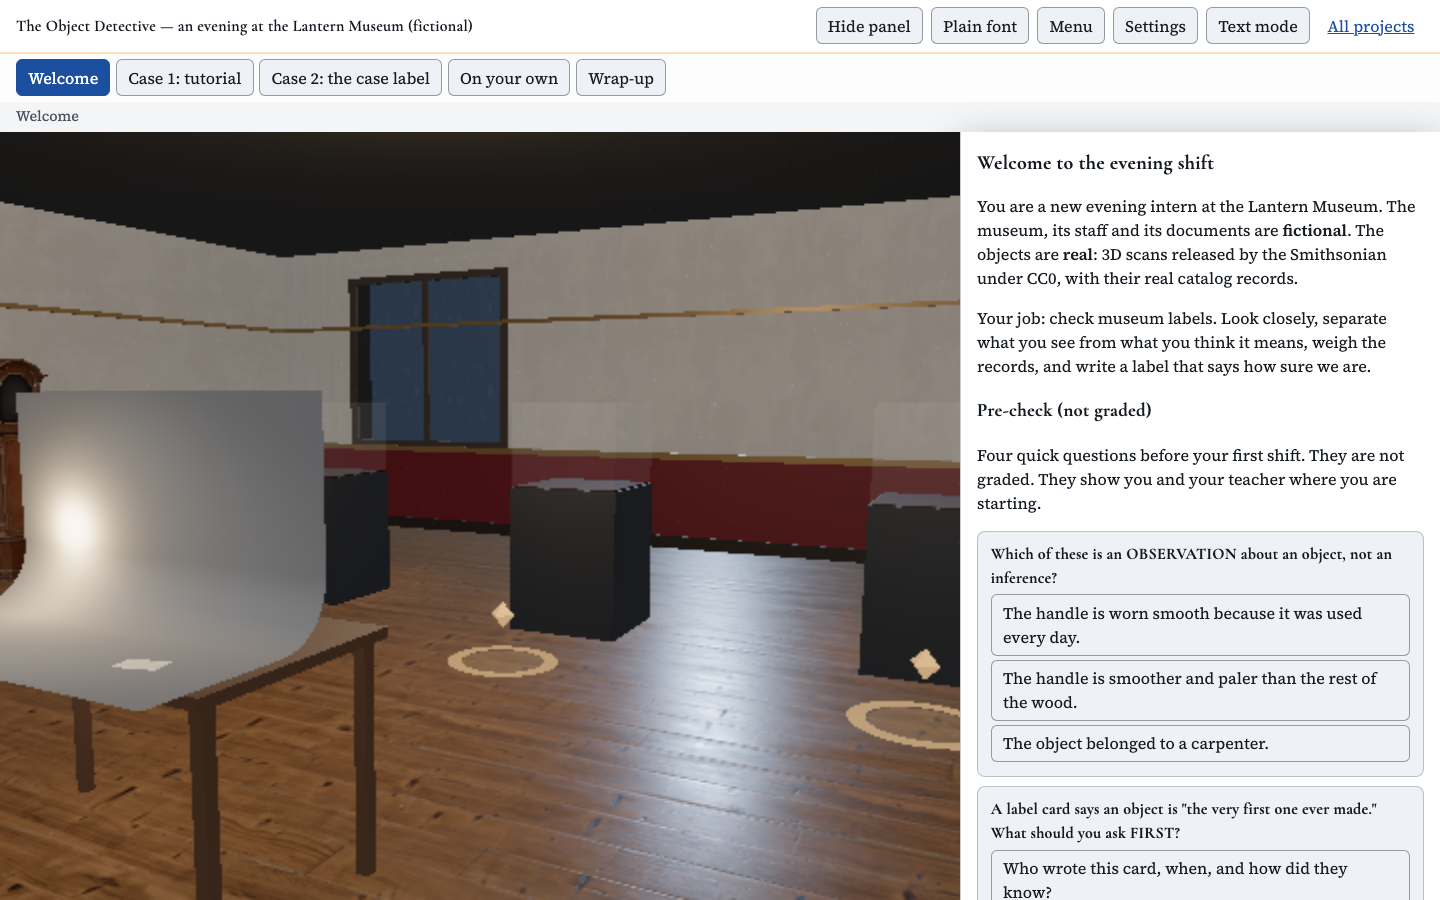
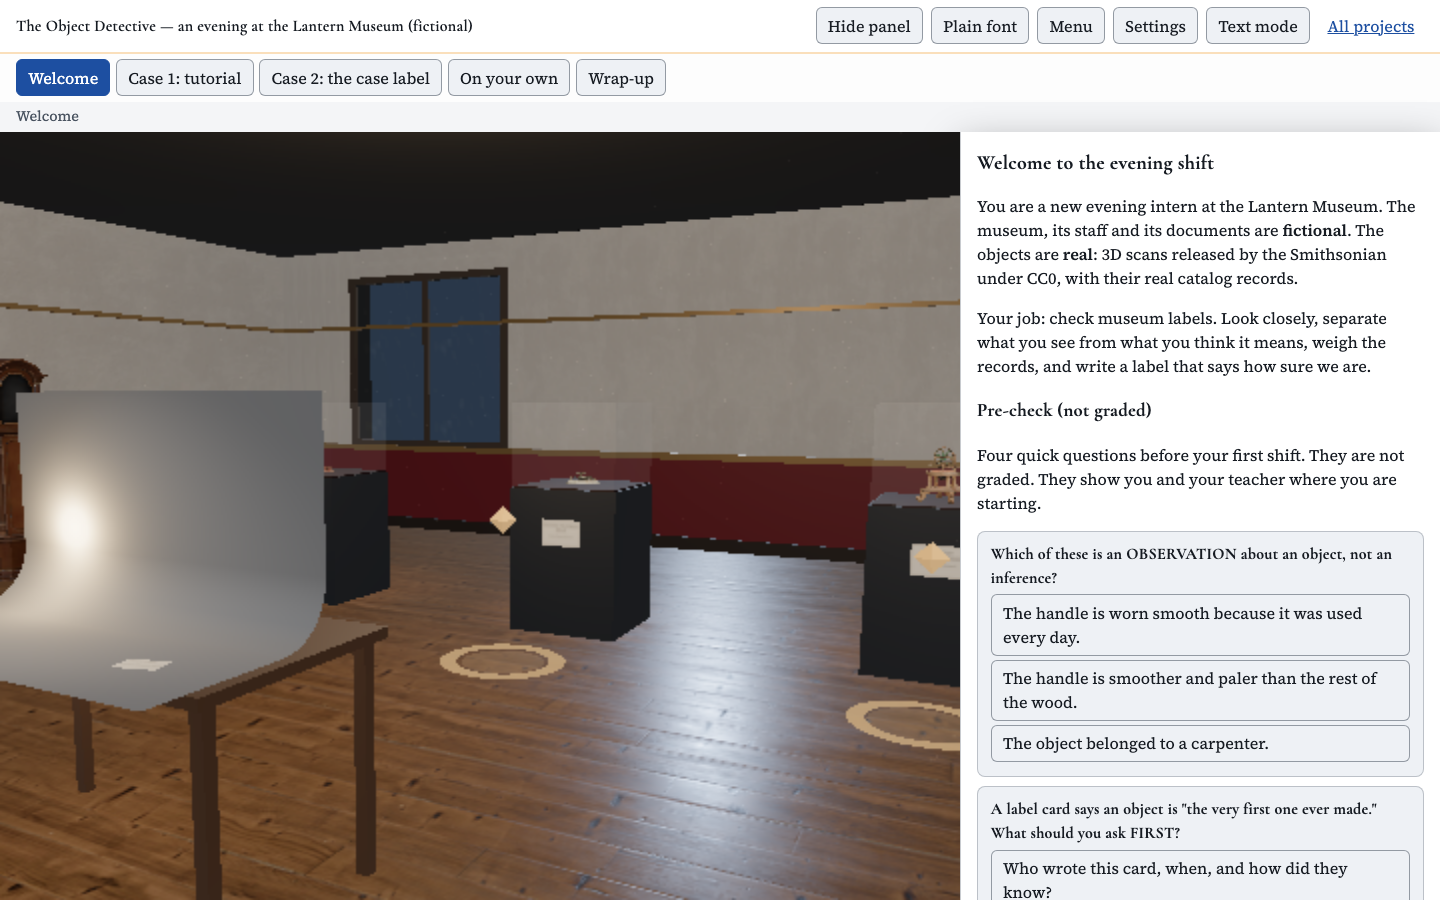
fix(v2): agent-review revisions OD-V9..V16 — dressed display cases, evidence-board cards back on the cork, archive arrival framing, full-bleed drawer collapse, torch label sync
V2-VIS-1 (major): the three display cases now carry a copy of one of the
Smithsonian CC0 scans (CASE_DISPLAYS: Henry trough battery, Chester telegraph
relay, Davenport electric motor — loaded through the inspection cache) plus a
Special Elite label card on the plinth front reading 'Lantern Museum
(fictional)'; the S2 reveal tucks the centre-case display away and restores it.
Poster re-rendered from the dressed scene so the alt text is true as written
(V2-HON-1).

V2-VIS-2 (major): evidence-board cards used local z 1.5-1.9 inside a group
already at z=1.7 and floated ~1.5 m off the cork; re-positioned to local
z -0.38..0.36 so cards + red string land on the board (world x 5.934 +-0.08).

V2-INT-1 (major): hotspot-archive arrival moved into the doorway mouth
[6.9, 1.5, -1.2] so the sightline clears the open door leaf.

V2-INT-2 (major): collapsing the HUD drawer now overlays the panel (skipped in
text mode) and engine.resize() runs on the toggle, so the canvas grows to full
bleed and shrinks back; magnifier stays rect-based/resize-safe.

Minors: ToolPad.syncRaking keeps the raking sliders honest while the torch is
mouse-aimed (V2-VIS-4); chandelier 0.2 m lower + emissive 0.55->0.9 (V2-VIS-5);
reduced-motion glide verified instant (V2-MOT-1).

OD-V16 (found during verification): the full main-case 3D e2e was racy — a POI
clicked mid object-switch recorded against the previous object. gotoHotspot now
settles the in-flight switch (Inspection.whenStaged) before applying the
[…]

diff --git a/src/scenes/gallery.js b/src/scenes/gallery.js
@@ -122,6 +122,17 @@ function makeRainTexture() {
 
 export const H_CHAND = 3.6;
 
+/**
+ * The three CC0 Smithsonian scans displayed in the gallery cases during
+ * explore mode (agent review V2-VIS-1): the same real CC0 files the learner
+ * inspects on the table, dressed as Lantern Museum (fictional) displays.
+ */
+export const CASE_DISPLAYS = [
+  { id: 'henry-trough-battery', title: 'Henry trough battery' },
+  { id: 'chester-relay', title: 'Chester telegraph relay' },
+  { id: 'davenport-motor', title: 'Davenport electric motor' },
+];
+
 export class Gallery {
   constructor(scene, renderer, textures, hdriPath) {
     this.scene = scene;
@@ -141,8 +152,10 @@ export class Gallery {
     this._loadHDRI(hdriPath);
     // Poly Haven furniture (async, fails soft if the manifest is unavailable).
     this.library = new ModelLibrary();
-    this.library.place(this.root, 'Chandelier_01', { position: [0, H_CHAND - 0.05, -2], targetHeight: 1.05, contactShadow: false })
-      .then((m) => { if (m) { m.traverse((c) => { if (c.isMesh && c.material && 'emissiveIntensity' in c.material) c.material.emissiveIntensity = 0.55; }); } })
+    // Chandelier 0.2 m lower + stronger candle emissive so the prop itself reads
+    // against the near-black ceiling, not only its light pool (agent review V2-VIS-5).
+    this.library.place(this.root, 'Chandelier_01', { position: [0, H_CHAND - 0.25, -2], targetHeight: 1.05, contactShadow: false })
+      .then((m) => { if (m) { m.traverse((c) => { if (c.isMesh && c.material && 'emissiveIntensity' in c.material) c.material.emissiveIntensity = 0.9; }); } })
       .catch(() => {});
     this.library.place(this.root, 'vintage_grandfather_clock_01', { position: [-5.45, 0, -3.4], rotationY: Math.PI / 2, targetHeight: 2.05 })
       .then((m) => { if (m) { this.clock = m; this._buildPendulum(m); } })
@@ -375,7 +388,11 @@ export class Gallery {
     g.add(frame, cork);
     const cardMat = new THREE.MeshStandardMaterial({ color: '#f4efe4', roughness: 0.85 });
     const pinMat = new THREE.MeshStandardMaterial({ color: '#8c2d35', roughness: 0.4 });
-    const cards = [[1.5, 2.1], [1.5, 1.75], [1.9, 1.55], [1.85, 2.0]];
+    // Card offsets are LOCAL to the group (which sits at z = 1.7): [cz, cy] pairs
+    // must land on the cork, which spans local z ±0.55, y 1.17..2.27. The old
+    // values (cz 1.5–1.9) placed the cards 1.5+ m off the board in world space
+    // (agent review V2-VIS-2).
+    const cards = [[-0.38, 2.0], [0.06, 1.82], [0.36, 1.54], [-0.06, 2.12]];
     for (const [cz, cy] of cards) {
       const card = new THREE.Mesh(new THREE.PlaneGeometry(0.22, 0.28), cardMat);
       card.rotation.y = -Math.PI / 2;
@@ -471,7 +488,10 @@ export class Gallery {
         cameraPos: [x, 1.5, -1.5], cameraTarget: [x, 1.2, -4.2], onClick: () => onCase?.(i) });
     });
     ring([7.1, 0.02, -0.9], { id: 'hotspot-archive', label: 'Archive cabinet', hint: 'Walk into the archive corner', color: 0x8FB08D,
-      cameraPos: [6.5, 1.5, 0.1], cameraTarget: [8.1, 0.95, -1.9], onClick: () => onArchive?.() });
+      // Arrival pose inside the doorway mouth: the old [6.5, 1.5, 0.1] framed the
+      // open door slab (agent review V2-INT-1); from [6.9, 1.5, -1.2] the sightline
+      // to the cabinet/bookshelf corner clears the leaf.
+      cameraPos: [6.9, 1.5, -1.2], cameraTarget: [8.1, 0.95, -1.9], onClick: () => onArchive?.() });
     ring([4.6, 0.02, 1.7], { id: 'hotspot-board', label: 'Evidence board', hint: 'Walk to the evidence board', color: 0xC9743B,
       cameraPos: [4.1, 1.5, 1.7], cameraTarget: [5.95, 1.7, 1.7], onClick: () => onBoard?.() });
   }
@@ -571,6 +591,10 @@ export class Gallery {
    */
   showInCase(model, labelText) {
     if (this._caseGroup) { this.root.remove(this._caseGroup); this._caseGroup = null; }
+    // The reveal shares the centre case deck with the explore-mode display:
+    // tuck the dressed artefact away while the learner's labelled copy is up
+    // and restore it when the reveal clears (agent review V2-VIS-1).
+    if (this._caseArtefacts?.[1]) this._caseArtefacts[1].visible = !model;
     if (!model) return;
     const g = new THREE.Group();
     const copy = model.clone(true);
@@ -593,6 +617,90 @@ export class Gallery {
     g.userData.objectSize = size;
     this._caseGroup = g;
     this.root.add(g);
+  }
+
+  /** Small Special Elite label card on a case front (canvas texture). */
+  _labelCard(title) {
+    const c = document.createElement('canvas');
+    c.width = 512; c.height = 320;
+    const draw = () => {
+      const g = c.getContext('2d');
+      g.fillStyle = '#f1ead9';
+      g.fillRect(0, 0, c.width, c.height);
+      g.strokeStyle = '#8a7a5f';
+      g.lineWidth = 6;
+      g.strokeRect(10, 10, c.width - 20, c.height - 20);
+      g.fillStyle = '#241d15';
+      g.textAlign = 'center';
+      g.textBaseline = 'top';
+      let y = 52;
+      for (const line of wrapText(String(title || '').toUpperCase(), 17).slice(0, 3)) {
+        g.font = '46px "Special Elite", Georgia, serif';
+        g.fillText(line, c.width / 2, y);
+        y += 56;
+      }
+      g.font = 'italic 26px Georgia, serif';
+      g.fillText('Lantern Museum (fictional)', c.width / 2, Math.min(y + 20, c.height - 58));
+    };
+    draw();
+    const t = new THREE.CanvasTexture(c);
+    t.colorSpace = THREE.SRGBColorSpace;
+    t.anisotropy = 4;
+    // Special Elite lazy-loads on first use; redraw once the face is in so the
+    // card is set in the accent font, not the Georgia fallback.
+    if (document.fonts?.load) {
+      document.fonts.load('46px "Special Elite"').then((faces) => {
+        if (faces.length) { draw(); t.needsUpdate = true; }
+      }).catch(() => { /* fallback serif stays */ });
+    }
+    return t;
+  }
+
+  /**
+   * Dress the three display cases for explore mode (agent review V2-VIS-1):
+   * a copy of one of the Smithsonian CC0 scans on each felt deck plus a small
+   * Special Elite label card on the case front. `load(id)` resolves a scan
+   * group (pass the inspection cache's loader so no GLB is fetched twice).
+   * Labels frame the displays as Lantern Museum (fictional) — the artefacts
+   * are the same real CC0 scans shown under the studio light, and the cards
+   * claim no new realness beyond that.
+   * @param {{id: string, title: string}[]} entries  one per case (left, centre, right)
+   * @param {(id: string) => Promise<THREE.Object3D>} [load]
+   */
+  dressCases(entries, load) {
+    if (!this.cases?.length || !Array.isArray(entries)) return;
+    this._caseArtefacts = this._caseArtefacts || [];
+    entries.forEach((entry, i) => {
+      const caseGroup = this.cases[i];
+      if (!caseGroup || !entry || this._caseArtefacts[i]) return;
+      const card = new THREE.Mesh(
+        new THREE.PlaneGeometry(0.3, 0.19),
+        new THREE.MeshStandardMaterial({ map: this._labelCard(entry.title), roughness: 0.85 }),
+      );
+      card.position.set(0, 0.74, 0.403); // plinth front face (0.8 m deep), below the glass
+      card.rotation.x = -0.03;
+      caseGroup.add(card);
+      if (!load) return;
+      load(entry.id).then((model) => {
+        if (!model || this._caseArtefacts[i]) return;
+        const copy = model.clone(true);
+        copy.traverse((o) => { if (o.isMesh) { o.castShadow = true; o.receiveShadow = true; } });
+        const box = new THREE.Box3().setFromObject(copy);
+        const size = box.getSize(new THREE.Vector3());
+        const centre = box.getCenter(new THREE.Vector3());
+        // Fit inside the 0.78 m glass cube (0.6 m tall interior); true scan
+        // proportions, scaled down only when a piece exceeds the case.
+        const s = Math.min(0.34 / Math.max(size.x, size.y, size.z, 1e-4), 1);
+        copy.scale.setScalar(s);
+        copy.position.set(-centre.x * s, -box.min.y * s, -centre.z * s);
+        const holder = new THREE.Group();
+        holder.add(copy);
+        holder.position.set(0, CASE_POS.y + 0.012, 0); // felt deck top
+        holder.rotation.y = -0.3;
+        caseGroup.add(holder);
+        this._caseArtefacts[i] = holder;
+      }).catch(() => { /* fail soft: an empty case stays lit and labelled */ });
+    });
   }
 
   setShadowSize(size) {

diff --git a/src/app.js b/src/app.js
@@ -17,7 +17,7 @@ import { LearningRecord } from './learning/record.js';
 import { MotionPrefs } from './a11y/motion.js';
 import { announce } from './a11y/announcer.js';
 import { ShotPlayer } from './cinematics/shot-player.js';
-import { Gallery } from './scenes/gallery.js';
+import { Gallery, CASE_DISPLAYS } from './scenes/gallery.js';
 import { Inspection } from './scenes/inspection.js';
 import { RakingLight } from './systems/raking-light.js';
 import { Magnifier } from './systems/magnifier.js';
@@ -42,7 +42,9 @@ export class App {
   constructor() {
     document.body.insertAdjacentHTML('afterbegin', '<dialog id="settings-dialog" aria-label="Settings"></dialog><dialog id="progress-dialog" aria-label="My progress"></dialog><dialog id="help-dialog" aria-labelledby="help-h"></dialog><dialog id="restart-dialog" aria-labelledby="restart-h"></dialog>');
     this.shell = new Shell({ slug: SLUG, title: 'The Object Detective — an evening at the Lantern Museum (fictional)', moduleLabels: CHAPTERS, onModuleChange: (i) => this.gotoChapter(i) });
-    initFloatingHud({ slug: SLUG, panel: document.getElementById('panel') });
+    // V2-INT-2: collapsing the HUD drawer hands its width back to the 3D view
+    // (the CSS releases the panel from flex flow), so the canvas must be re-measured.
+    initFloatingHud({ slug: SLUG, panel: document.getElementById('panel'), onDrawerChange: () => this.engine?.resize() });
     this.record = new LearningRecord(SLUG);
     this.motion = new MotionPrefs(SLUG);
     this.keys = new KeyMap(SLUG);
@@ -102,6 +104,10 @@ export class App {
     applyCaseGrade(SLUG, { renderer: this.engine.renderer, scene: this.engine.scene, skyRadius: 400 });
     this.gallery = new Gallery(this.engine.scene, this.engine.renderer, c.textures, c.environment.hdri);
     this.inspection = new Inspection(this.engine, this.models, this.objects);
+    // Explore-mode dressing (agent review V2-VIS-1): each display case gets a
+    // copy of one of the Smithsonian CC0 scans + a Special Elite label card.
+    // The inspection cache loader is reused so no GLB downloads twice.
+    this.gallery.dressCases(CASE_DISPLAYS, (id) => this.inspection.load(id));
     this._initWorld(c);
     this.rake = new RakingLight(this.engine.scene, this.gallery);
     this.magnifier = new Magnifier(this.engine, this.inspection, this.shell.overlays);
@@ -159,6 +165,9 @@ export class App {
       const nx = (e.clientX - rect.left) / rect.width;
       const ny = (e.clientY - rect.top) / rect.height;
       this.rake.set({ azimuth: Math.round(nx * 360), elevation: Math.round(THREE.MathUtils.lerp(48, 6, Math.min(1, Math.max(0, ny)))) });
+      // Keep the pad's sliders/outputs honest while the torch is mouse-aimed
+      // (agent review V2-VIS-4) — an in-place sync, not a pad re-render per move.
+      this.tools?.pad?.syncRaking?.(this.rake.state);
     });
     this._chapterForIw = this.chapter;
   }
@@ -278,6 +287,10 @@ export class App {
       showObject: (id) => this._stage(id),
       gotoHotspot: async (id, hs) => {
         if (!this.engine || this.shell.textMode) return;
+        // A POI can be clicked while a just-chosen object is still loading:
+        // settle that switch first so the camera, announce and lens all describe
+        // the staged object (main-case 3D flake; the announce must be truthful).
+        await this.inspection.whenStaged();
         if (this.inspection.primary?.id !== id || this.inspection.slots.length !== 1) await this.inspection.show(id);
         this.inspection.hotspot(id, hs);
         this.tools.lensToHotspot();

diff --git a/src/ui/tool-pad.js b/src/ui/tool-pad.js
@@ -32,6 +32,26 @@ export class ToolPad {
 
   k(id) { return KeyMap.pretty(this.api.keys.map[id]); }
 
+  /**
+   * Sync the raking sliders + outputs in place (agent review V2-VIS-4): the
+   * torch-aim pointermove would otherwise leave the pad showing a stale
+   * direction/height while the state has moved. No re-render per move — the
+   * values update on the live controls only.
+   */
+  syncRaking(raking = {}) {
+    const rows = { azimuth: ['rake-az', '°'], elevation: ['rake-el', '°'], intensity: ['rake-in', ''] };
+    for (const [key, [id, unit]] of Object.entries(rows)) {
+      if (!(key in raking)) continue;
+      const input = this.root.querySelector(`input#${id}`);
+      if (input && +input.value !== raking[key]) {
+        input.value = raking[key];
+        input.setAttribute('value', String(raking[key]));
+      }
+      const out = this.root.querySelector(`output[for="${id}"]`);
+      if (out) out.textContent = `${raking[key]}${unit}`;
+    }
+  }
+
   render({ compareOptions = [], compareId = null, raking = { azimuth: 300, elevation: 12, intensity: 3.2 }, rakingOn = false, magOn = false, magZoom = 4, trueSize = false, pointMeasure = false, measureText = '', trueSizeText = '' } = {}) {
     this._lastArgs = arguments[0] || {};
     if (this.collapsed === null) this.collapsed = window.matchMedia('(max-width: 760px)').matches;

diff --git a/src/v2/hud-shell.css b/src/v2/hud-shell.css
@@ -52,6 +52,22 @@ html[data-drawer-collapsed="true"] .dlg-panel {
   transition: transform 0.28s cubic-bezier(0.22, 1, 0.36, 1), opacity 0.22s ease;
 }
 
+/* V2-INT-2: the collapsed drawer must also give its WIDTH back to the 3D view.
+   Overlay the panel on the stage instead of sharing flex space, so the viewport
+   (and #app canvas) grow to full bleed; the app calls engine.resize() on the
+   drawer toggle. Text mode keeps the panel in flow — the canvas is hidden
+   there and the panel is the whole interface. */
+html[data-drawer-collapsed="true"]:not([data-textmode="on"]) #task-panel,
+html[data-drawer-collapsed="true"]:not([data-textmode="on"]) #panel,
+html[data-drawer-collapsed="true"]:not([data-textmode="on"]) #session-panel,
+html[data-drawer-collapsed="true"]:not([data-textmode="on"]) .course-panel,
+html[data-drawer-collapsed="true"]:not([data-textmode="on"]) .dlg-panel {
+  position: absolute;
+  right: 0;
+  top: 0;
+  bottom: 0;
+}
+
 #task-panel,
 #panel,
 #session-panel,

diff --git a/tests/helpers.js b/tests/helpers.js
@@ -43,6 +43,13 @@ export async function solveCase(page, caseId, { text = false, wrongClaim = null 
       if (text) {
         await page.locator('.look-actions button', { hasText: LOOK[f.tool] }).click();
       } else {
+        // A POI clicked right after choosing an object can land mid-load: wait
+        // until the staged object is on the table and the camera has actually
+        // moved to this spot ("Camera moved to:" announce state) before recording.
+        await page.waitForFunction(([oid, hid]) => {
+          const i = window.__TEST__?.inspection;
+          return i?.primary?.id === oid && i?.view?.hotspot === hid;
+        }, [f.objectId, f.hotspot.id], { timeout: 30_000 });
         await use3DTool(page, f.tool);
         await page.getByRole('button', { name: 'Record what I see' }).click();
         if (TOGGLE_KEY[f.tool]) await page.keyboard.press(TOGGLE_KEY[f.tool]); // tool off again

diff --git a/src/app-tools.js b/src/app-tools.js
@@ -55,7 +55,13 @@ export class ToolController {
       toggleTrueSize: (on) => this.setTrueSize(on),
       setCompare: (id) => this.setCompare(id),
     });
-    magnifier.onHiRes = (ok) => { if (ok) announce('Sharper 4096-pixel scan texture loaded for the magnifier.'); };
+    magnifier.onHiRes = (ok) => {
+      if (ok) announce('Sharper 4096-pixel scan texture loaded for the magnifier.');
+      // The hi-res swap re-frames the camera (Inspection._swapModel -> _applyCamera),
+      // which can shift the mark's screen position after the lens was placed on the
+      // base model's projection — keep the lens on the current POI's mark.
+      this.lensToHotspot();
+    };
     this._initInput();
     inspection.onChange = () => { if (this.trueSize) this._layoutRefs(); };
   }

diff --git a/src/scenes/inspection.js b/src/scenes/inspection.js
@@ -83,7 +83,20 @@ export class Inspection {
   }
 
   /** Show one object (or two for compare). */
-  async show(ids) {
+  show(ids) {
+    const run = this._showInner(ids);
+    // Track the in-flight switch so actions clicked mid-load (e.g. Record) can
+    // wait for the staged object instead of acting on the previous one.
+    this._staging = run;
+    return run;
+  }
+
+  /** Resolves once any in-flight object switch has landed. Never rejects. */
+  async whenStaged() {
+    try { await this._staging; } catch { /* a failed load must not hang the learner */ }
+  }
+
+  async _showInner(ids) {
     const list = Array.isArray(ids) ? ids : [ids];
     const models = await Promise.all(list.map((id) => this.load(id)));
     for (const s of this.slots) this.stage.remove(s.holder);

diff --git a/src/ui/case-view.js b/src/ui/case-view.js
@@ -146,6 +146,8 @@ export class CaseView {
         card.appendChild(h('p', {}, 'The camera has moved to this spot. Use the tools, then record what you see.'));
         card.appendChild(h('button', { type: 'button', class: 'primary', onclick: () => {
           // A tool counts only if it reveals this mark now (lens over it, light low, right side up).
+          // Judged synchronously on the visible state: gotoHotspot has already
+          // settled any in-flight object switch before announcing the spot.
           const active = this.hooks.activeTools(f.objectId, f.hotspot);
           if (active.has(f.tool)) { tryDiscover(f.tool); return; }
           tryDiscover([...active].find((t) => t !== 'view') || 'view', this.hooks.whyNotRevealed?.(f.objectId, f.hotspot, f.tool));

diff --git a/DECISIONS.md b/DECISIONS.md
@@ -94,3 +94,16 @@ Source: `evaluation/reviews/agent-review-second-pass.md` (independent reviewer; 
 | OD-V6 | Raking light gains mouse aiming (a physical torch) only while the tool is on and no button is held; sliders and keyboard steps unchanged | Owner decision 8; keyboard/text parity per plan 09 §2.3 |
 | OD-V7 | Rolling v2.0.0 release: bump, posters re-rendered from the v2 scene with blank-frame detection + retry, stale posters deleted; no tag from the builder | Owner decision 6 |
 | OD-V8 | In-world hotspot labels are announced via the existing announcer; every hotspot mirrors panel navigation (cases = chapter content, evidence board = panel step) | Plan 09 §2.3 parity rule |
+
+## Revision log — v2 agent reviews (OD-V9+, 2026-10-28)
+
+| ID | Finding (source) | Change | Evidence |
+|---|---|---|---|
+| OD-V9 | **Major** (V2-VIS-1): the three display cases were empty in explore mode — the art bible's "six Smithsonian scans stay the heroes on plinths with label cards" only held during case inspection | `Gallery.dressCases()` puts a copy of one of the Smithsonian CC0 scans on each case deck (`CASE_DISPLAYS`: Henry trough battery, Chester telegraph relay, Davenport electric motor — loaded through the inspection cache, so no GLB downloads twice) plus a Special Elite label card (canvas texture) on the case front reading "Lantern Museum (fictional)". The S2 reveal tucks the centre-case display away while the learner's labelled copy is up and restores it after (`showInCase`) | Probe: 3/3 dressed copies + 3/3 label cards on the plinth fronts; re-shot `evaluation/reviews/screenshots/v2-welcome.png`; poster re-rendered from the dressed scene (51/99 KB, under the 200 KB budget) |
+| OD-V10 | **Major** (V2-VIS-2): the evidence-board pinned cards floated 1.5–1.9 m south of the cork — card z-offsets 1.5–1.9 were applied inside a group already placed at z = 1.7 | Cards re-positioned to local z −0.38..0.36 / y 1.54..2.12, so all four cards and the red string land on the board (world x 5.934, within ±0.08 m of the cork plane) | Probe: 4 cards at world x=5.934 with z 1.32–2.06 and y 1.54–2.12 inside the cork bounds; re-shot `v2-evidence-board.png` (cards + string on the cork) |
+| OD-V11 | **Major** (V2-INT-1): hotspot-archive arrival pose [6.5, 1.5, 0.1] had its sightline grazing the open door slab — the learner arrived staring into the door leaf | `cameraPos` moved into the doorway mouth [6.9, 1.5, −1.2] (the reviewer-verified framing), target unchanged [8.1, 0.95, −1.9] | Probe asserts the arrival pose; re-shot `v2-archive-corner.png` frames the cabinet, bookshelf and lantern |
+| OD-V12 | **Major** (V2-INT-2): collapsing the HUD drawer left the canvas in its 960 px box — the full-bleed promise was unmet in the collapsed state | Collapsed CSS overlays the panel on the stage (`position: absolute`, still slid down to the 2.4 rem ghost; skipped in text mode, where the panel is the whole interface) and `initFloatingHud`'s `onDrawerChange` calls `engine.resize()`, reversed on expand | Probe: canvas 960 → 1440 px (full viewport), renderer buffer 480 → 720 px, restored on expand; magnifier still measures from canvas rect after the cycle (resize-safe); `v2-drawer-collapsed.png` |
+| OD-V13 | Minor (V2-VIS-4): the tool-pad raking slider went stale while the torch was mouse-aimed (aim called `rake.set()` without refreshing the pad) | `ToolPad.syncRaking()` updates the three raking sliders/outputs in place from the aim handler — deliberately not a full pad re-render per pointermove | Probe: after a mouse aim, state 112° == slider 112° == pad label "112°" |
+| OD-V14 | Minor (V2-HON-1): the poster alt overstated "glass display cases with real Smithsonian CC0 scans" while the rendered cases were empty | Poster re-rendered from the now-dressed scene (`scripts/render-poster.mjs` dresses the cases exactly like the game), so the alt is true as written — the case copies are the same real CC0 scan files, and no new realness claim was added | New `public/poster-2.0.0.webp`/`.jpg` show the artefacts and label cards in the cases |
+| OD-V15 | Minor (V2-VIS-5 chandelier barely readable against the near-black ceiling; V2-MOT-1 reduced-motion verify-only) | Chandelier sits 0.2 m lower with candle emissive 0.55 → 0.9; reduced-motion verified: `glideTo()` snaps instantly under reduced motion and the ring pulse stays guarded in `update()` | Probe: reduced-motion glide lands immediately; code trace of both guards |
+| OD-V16 | Regression guard found during revision verification: the full main-case 3D e2e failed intermittently — a POI clicked right after choosing an object could land mid-load, so "Record what I see" was judged against the previous object (and, with a deferred judgment, past a tool-off toggle) | `gotoHotspot` now settles any in-flight object switch first (`Inspection.whenStaged()`, tracked on `show()`), so the camera, announce and lens all describe the staged object; `Magnifier.onHiRes` re-seats the lens on the current mark after the 4096-px swap re-frames the camera; the e2e helper waits for `primary.id === objectId && view.hotspot === hs.id` before recording instead of assuming the switch lands in ~150 ms. "Record" stays a synchronous judgment of the visible state | Full functional+a11y suites pass; the previously failing `functional.spec.js:46`/`:215` pass on re-runs |
